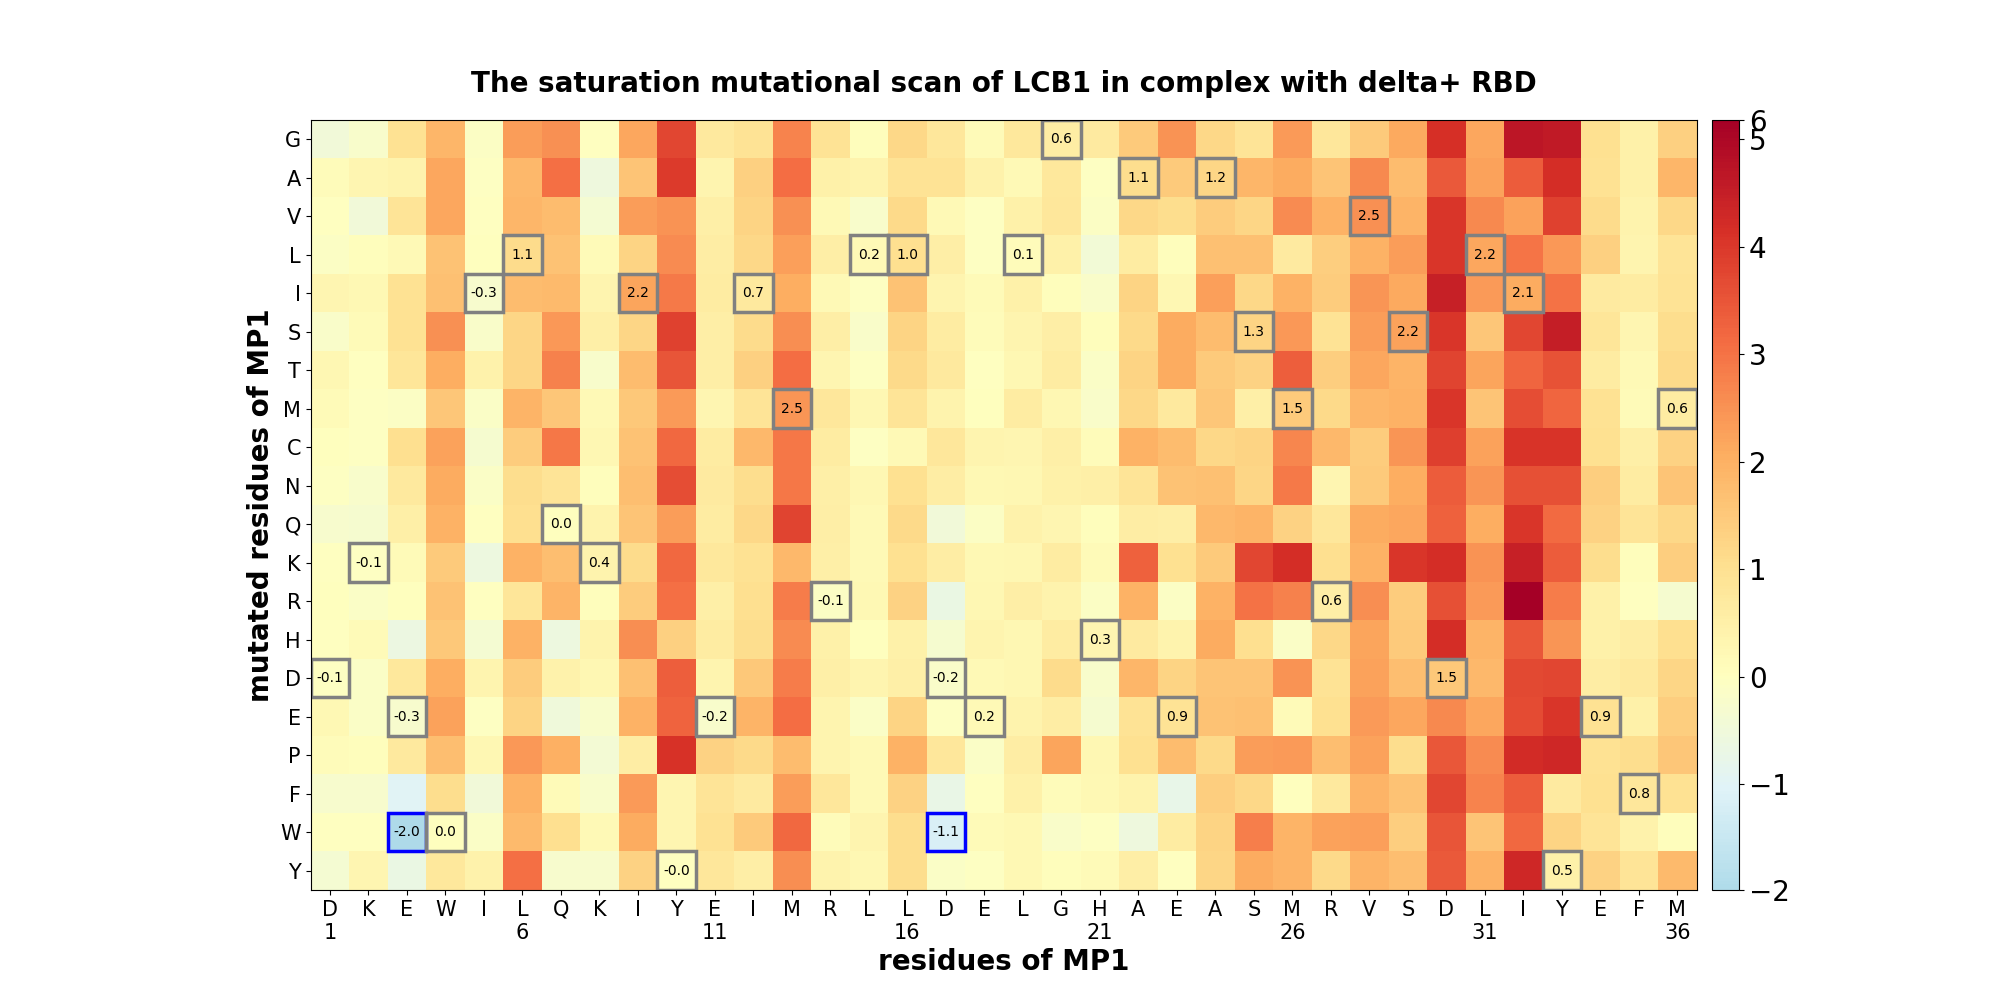
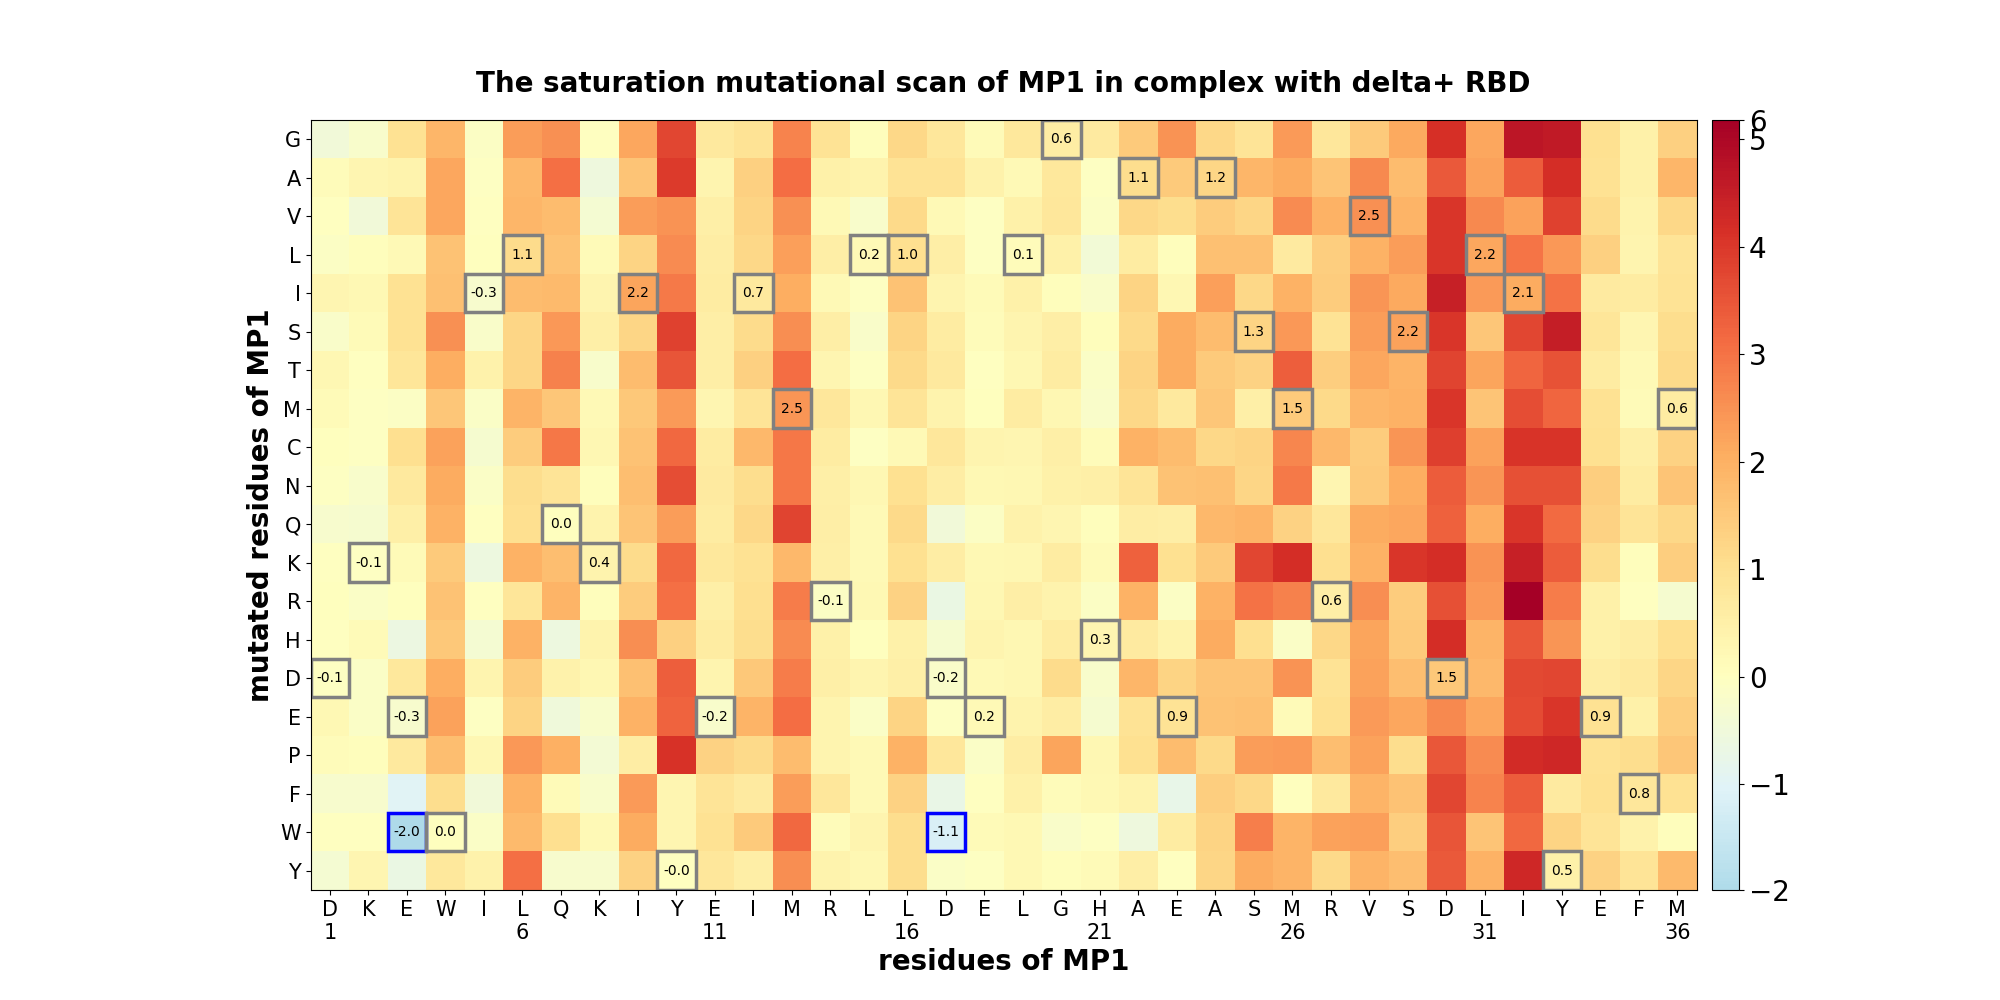
fixed scripts and plots for FlexddG and RMSD

Changed region(s): [[0.217, 0.062, 0.775, 0.093]]

diff --git a/MP1/3_RMSD/scripts/rmsd_plot.py b/MP1/3_RMSD/scripts/rmsd_plot.py
@@ -49,13 +49,13 @@ if __name__ == "__main__":
     
     parser.add_argument('-i', nargs=1, help='Path to folder containing RMSD results', required=True, default="../../tables/RMSD")
     
-    parser.add_argument('-o', nargs=1, help='Output filename', required=True)
+    parser.add_argument('-o', nargs=1, help='Output path with filename', required=True)
     
     args = parser.parse_args()
 
     mutants = ['wt', 'alpha', 'delta', 'delta_plus', 'omicron']
     
-    fig, ax = plt.subplots(len(mutants), 1, figsize = (65,40))
+    fig, ax = plt.subplots(len(mutants), 1, figsize = (55,40))
     ax = ax.flatten()
 
     for i, mutant in enumerate(mutants):
@@ -65,6 +65,6 @@ if __name__ == "__main__":
     #plt.yticks(fontsize=30)
     #plt.xticks(fontsize=30)
     plt.tight_layout()
-    plt.savefig(f"../plots/{args.o[0]}", bbox_inches='tight')
+    plt.savefig(args.o[0], bbox_inches='tight')
 
     

diff --git a/MP1/1_FlexddG/scripts/heatmap.py b/MP1/1_FlexddG/scripts/heatmap.py
@@ -69,7 +69,7 @@ def heatmap_rosetta(summary, strain, output='.'):
     ax.set_xticks(np.arange(len(list(data_corrected.columns))), labels=col_labels, fontsize=15)
     ax.set_yticks(np.arange(len(list(data_corrected.index))), labels=list(data_corrected.index), fontsize=15)
 
-    ax.set_title(f'The saturation mutational scan of LCB1 in complex with {strain} RBD', fontsize=20, pad=20, fontweight="bold")
+    ax.set_title(f'The saturation mutational scan of MP1 in complex with {strain} RBD', fontsize=20, pad=20, fontweight="bold")
     ax.set_xlabel('residues of MP1', fontsize=20, fontweight="bold")
     ax.set_ylabel('mutated residues of MP1', fontsize=20, fontweight="bold")
 
